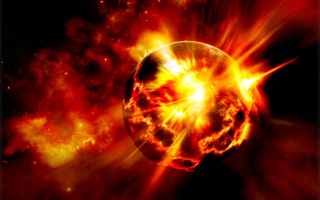
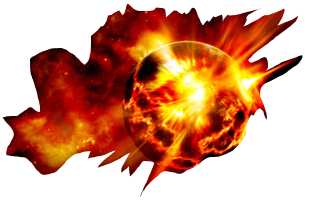
add alpha supporting

diff --git a/Gregphoto_Image.php b/Gregphoto_Image.php
@@ -195,6 +195,8 @@ Class Gregphoto_Image {
 	public function resize($type) {
 		$dimensions = $this->getThumbnailParams($type);
 		$this->thumb = imagecreatetruecolor($dimensions['width'],$dimensions['height']);
+		@imagealphablending( $this->thumb, FALSE );
+		@imagesavealpha( $this->thumb, TRUE );
 		imagecopyresampled(
 			$this->thumb, // dst
 			$this->original, // src
@@ -211,6 +213,8 @@ Class Gregphoto_Image {
 
 	protected function crop($img, $x_offset, $y_offset) {
 		$this->croped_thumb = imagecreatetruecolor($this->maxWidth, $this->maxHeight);
+		@imagealphablending( $this->croped_thumb, FALSE );
+		@imagesavealpha( $this->croped_thumb, TRUE );
 		imagecopy(
 			$this->croped_thumb,
 			$img,

diff --git a/img.php b/img.php
@@ -19,7 +19,7 @@ if ($type == 'orig') {
 } elseif ($type == 'fit') {
     $image->setMaxWidth(100);
     $image->setMaxHeight(100);
-    $image->resize(Gregphoto_Image::FIT);
+    $image->resize(Gregphoto_Image::FIT_WIDTH | Gregphoto_Image::FIT_HEIGHT);
     $image->showThumbnail();
 } elseif ($type == 'crop') {
     $image->setMaxWidth(270);
